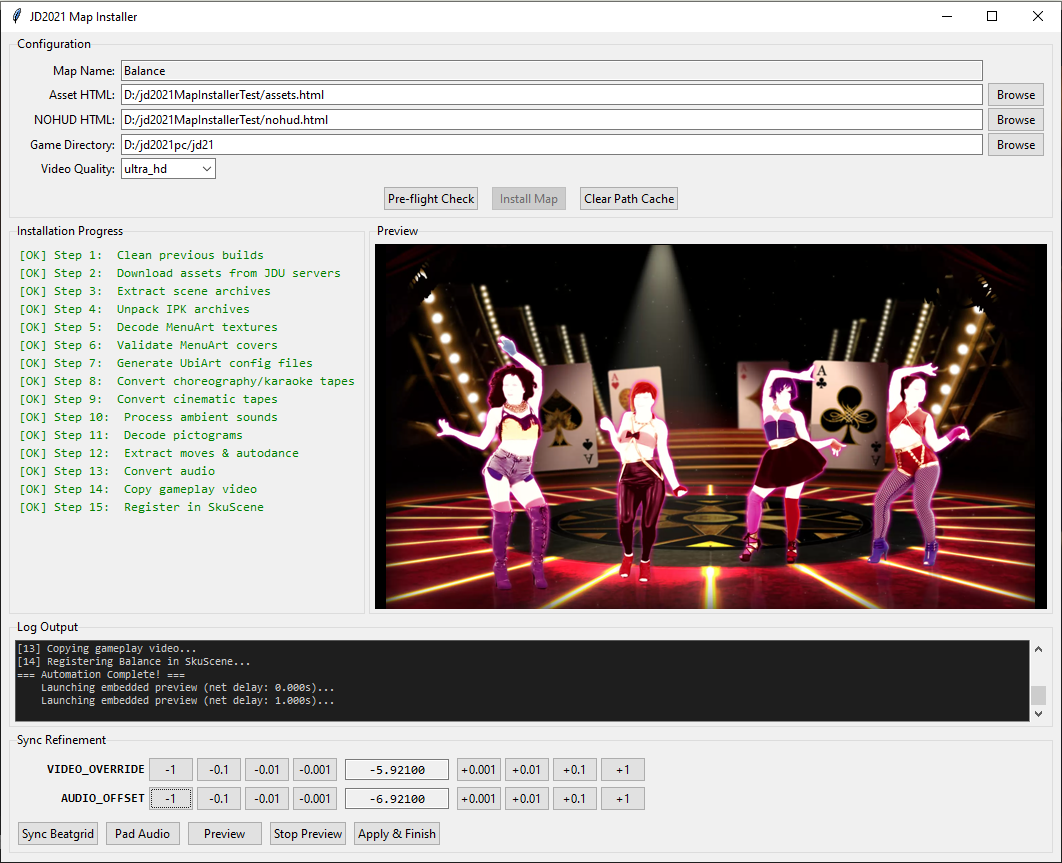
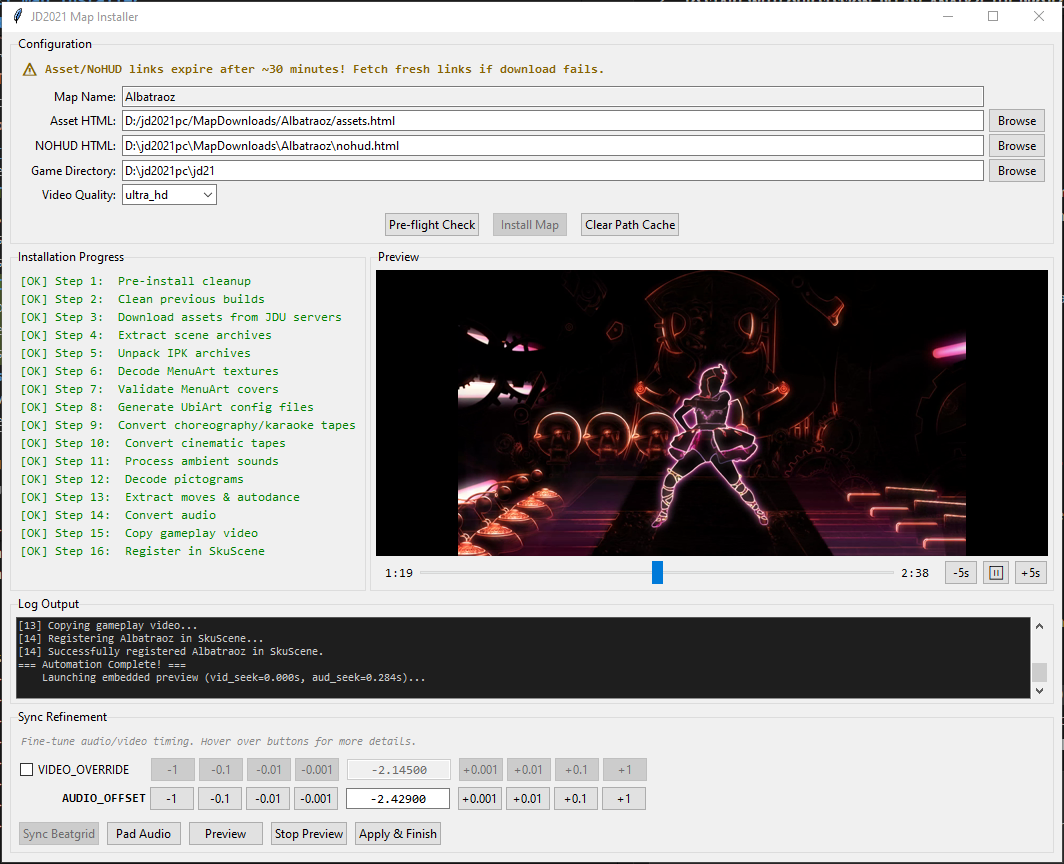
Stop auto-loading/saving map sync configs
Remove automatic loading and persistence of per-map sync settings during runs. The change prevents saved v_override/a_offset/marker_preroll values from being implicitly applied or written back during batch and GUI installs, and makes map_installer only load a sync config when an explicit --sync-config path is provided (it will still apply values if given). Related cleanup: removed config save calls in batch_install_maps.py, gui_installer.py and the interactive exit path in map_installer.py. Also updates Albatraoz map metadata timestamp and replaces the GUI screenshot image.

diff --git a/map_installer.py b/map_installer.py
@@ -1751,22 +1751,19 @@ def main():
         quality=args.quality,
     )
 
-    # Load saved sync config (explicit path takes priority, then auto-detect)
+    # Load sync config from explicit path if provided (overrides pipeline-calculated values)
     saved = None
     if args.sync_config and os.path.isfile(args.sync_config):
         with open(args.sync_config, 'r', encoding='utf-8') as f:
             saved = json.load(f)
         print(f"    Loaded sync config from {args.sync_config}")
-    else:
-        saved = load_map_config(state.map_name)
-
-    if saved:
-        if state.v_override is None:
-            state.v_override = saved.get('v_override')
-        if state.a_offset is None:
-            state.a_offset = saved.get('a_offset')
-        if state.marker_preroll_ms is None:
-            state.marker_preroll_ms = saved.get('marker_preroll_ms')
+        if saved:
+            if state.v_override is None:
+                state.v_override = saved.get('v_override')
+            if state.a_offset is None:
+                state.a_offset = saved.get('a_offset')
+            if state.marker_preroll_ms is None:
+                state.marker_preroll_ms = saved.get('marker_preroll_ms')
 
     # Start logging to file — everything from here on is captured to both terminal and log
     _log_file = setup_log_file(state.map_name)
@@ -1820,9 +1817,6 @@ def main():
         choice = input("Choice [0-4]: ").strip()
 
         if choice == '0':
-            save_map_config(state.map_name, v_override, a_offset,
-                            quality=state.quality, codename=state.codename,
-                            marker_preroll_ms=state.marker_preroll_ms)
             sys.exit(0)
         elif choice == '1':
             a_offset = v_override

diff --git a/gui_installer.py b/gui_installer.py
@@ -712,15 +712,6 @@ class MapInstallerGUI:
         # GUI mode: don't call input() in pipeline steps
         self.pipeline_state._interactive = False
 
-        # Load saved config if available (applies saved sync values)
-        saved = map_installer.load_map_config(
-            self.pipeline_state.map_name)
-        if saved:
-            if self.pipeline_state.v_override is None:
-                self.pipeline_state.v_override = saved.get('v_override')
-            if self.pipeline_state.a_offset is None:
-                self.pipeline_state.a_offset = saved.get('a_offset')
-
         # Close any previous log file and open a new one for this install run
         if self._log_file:
             try:
@@ -1280,14 +1271,6 @@ class MapInstallerGUI:
                     state.audio_path, state.map_name,
                     state.target_dir, state)
                 state.a_offset = a_offset
-
-                # Save sync config for future re-installs
-                map_installer.save_map_config(
-                    state.map_name,
-                    v_override, a_offset,
-                    quality=getattr(state, 'quality', 'ULTRA'),
-                    codename=state.codename,
-                    marker_preroll_ms=getattr(state, 'marker_preroll_ms', None))
 
                 # Clear game cache so the engine picks up the new audio files
                 if state.cache_dir and os.path.exists(state.cache_dir):

diff --git a/batch_install_maps.py b/batch_install_maps.py
@@ -116,11 +116,6 @@ def create_state(map_name, asset_html, nohud_html, jd_dir, quality="ultra_hd"):
         quality=effective_quality,
     )
 
-    saved = map_installer.load_map_config(state.map_name)
-    if saved:
-        state.v_override = saved.get('v_override', state.v_override)
-        state.a_offset = saved.get('a_offset', state.a_offset)
-
     return state
 
 
@@ -287,12 +282,6 @@ def main():
 
         try:
             run_steps(state, PROCESS_STEPS)
-
-            # Save config
-            map_installer.save_map_config(
-                state.map_name, state.v_override, state.a_offset,
-                quality=state.quality, codename=state.codename,
-                marker_preroll_ms=getattr(state, 'marker_preroll_ms', None))
 
             elapsed = time.time() - start_time
             process_results[name] = ("OK", f"{elapsed:.1f}s")
